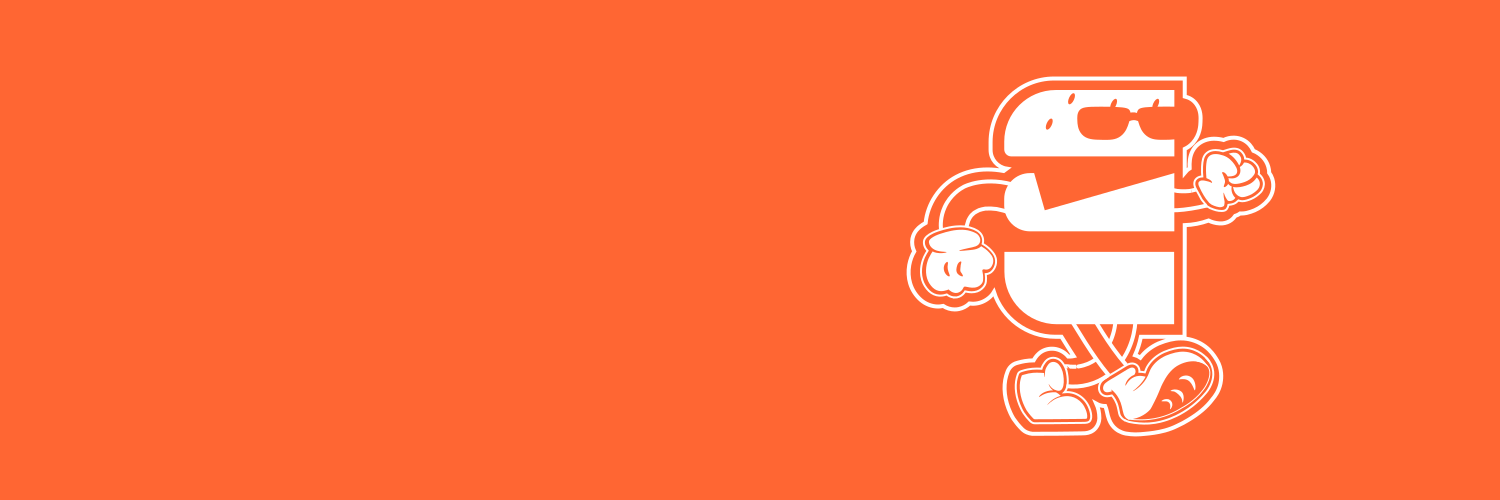
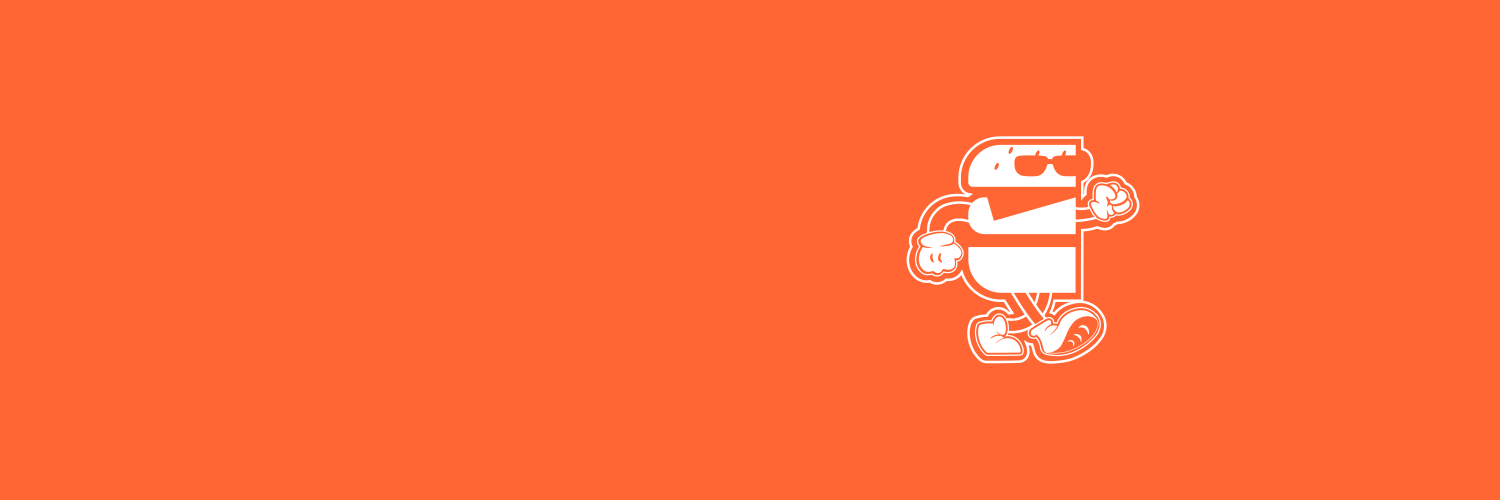
ajuste tamaño dibujo

Changed region(s): [[0.5827, 0.15, 0.8587, 0.87]]

diff --git a/src/app/page.tsx b/src/app/page.tsx
@@ -106,11 +106,11 @@ export default async function HomePage() {
             {status.isOpen ? "Abierto" : "Cerrado"}
           </span>
 
-          <h1 className="font-display text-3xl leading-tight tracking-wider text-white sm:text-4xl lg:text-6xl">
+          <h1 className="max-w-180 font-display text-3xl leading-tight tracking-wider text-white sm:max-w-md sm:text-4xl lg:max-w-xl lg:text-6xl">
             SAZÓN SOBRE LA PLANCHA
           </h1>
 
-          <p className="max-w-xl font-display text-xs leading-relaxed tracking-wide text-white sm:text-base lg:text-lg">
+          <p className="max-w-xl font-display text-[15px] leading-relaxed tracking-wide text-white sm:text-base lg:text-lg">
             {status.message}
           </p>
         </div>
